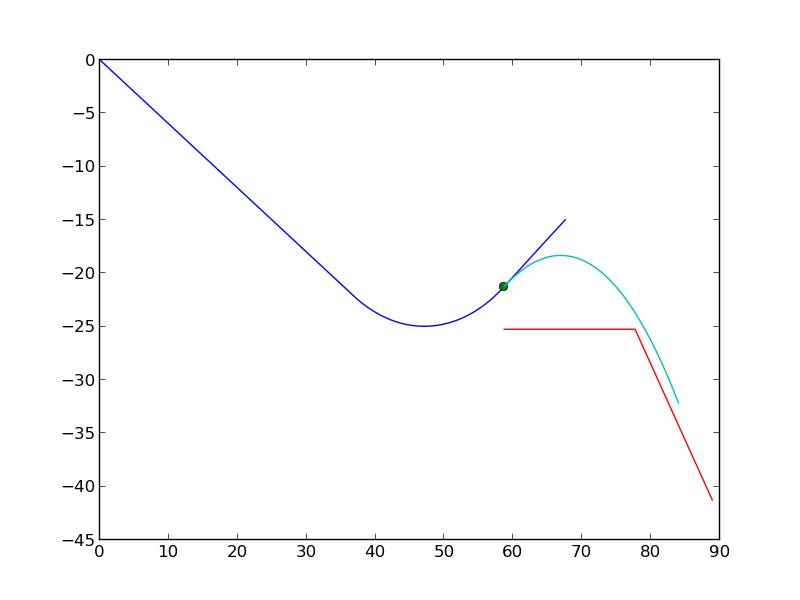
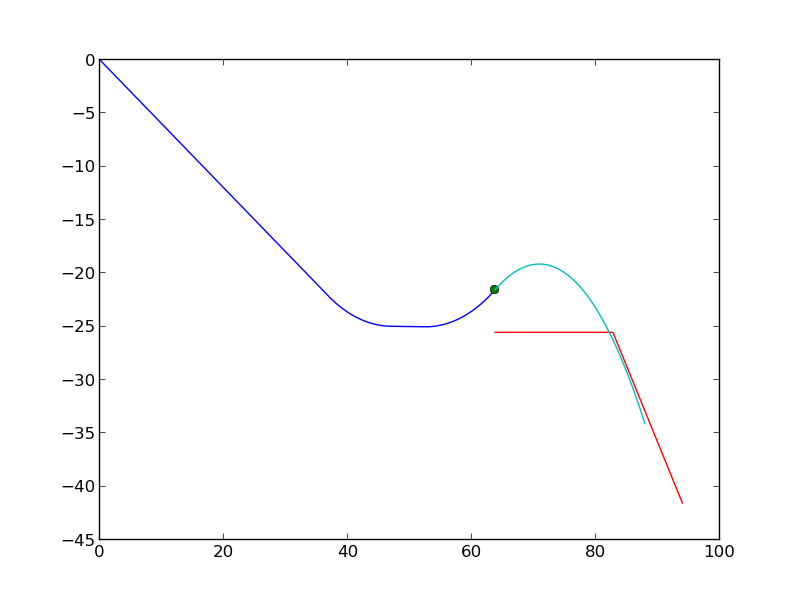
now flat section included, started edits on FCMAcr
mistakes on FCMAcro, need to add takeoff coordinate positions
atleast...

diff --git a/lahti/inrun.py b/lahti/inrun.py
@@ -10,10 +10,6 @@ g=9.81	#gravity
 m=80	#average mass of rider
 C=.055	#friction coefficient
 A=D/m#	#airresistant coefficient
-radius=20.	#this is global constant, radius of the transitions
-runangle=31.*2.*pi/360.		#angle of the inrun, straight section
-flat=5		#length of flat section before takeof
-ylengthstr=25.-(radius-cos(runangle)*radius)	#-yheight when transition starts, 0 is strarting level, 20 radius
 def tran1(xx,kalku):
 	#radius=radius			#radius of a transition from inrun to flat
 	yy=sqrt(radius**2-xx**2) 	#y coordinate at position x
@@ -21,25 +17,25 @@ def tran1(xx,kalku):
 	return [-yy,agl]
 
 
-def rinnekulma(x):
+def rinnekulma(x,ylengthstr,runangle,radius,flat):
 	if tan(runangle)*x<ylengthstr:
 		y=tan(runangle)
-		angle=runangle
+		return runangle
 	elif x<=(ylengthstr/tan(runangle)+radius*sin(runangle)):
-		angle=arcsin(((ylengthstr/tan(runangle)+radius*sin(runangle))-x)/radius)
-	elif x<=(ylengthstr/tan(runangle)+radius*sin(runangle))+flat:
-		angle=0
+		return arcsin(((ylengthstr/tan(runangle)+radius*sin(runangle))-x)/radius)
+	elif x<((ylengthstr/tan(runangle)+radius*sin(runangle))+flat):
+		return 0
 	else:
 		angle=max(-36.*2.*pi/360.,-arcsin((x-(ylengthstr/(tan(runangle))+radius*sin(runangle))-flat)/radius))
 
 	return angle
-def invradius(x):
-	if rinnekulma(x)>=runangle or -35.*2.*pi/360.>rinnekulma(x) or rinnekulma == 1:
+def invradius(x,ylengthstr,runangle,radius,flat):
+	if rinnekulma(x,ylengthstr,runangle,radius,flat)>=runangle or -35.*2.*pi/360.>rinnekulma(x,ylengthstr,runangle,radius,flat) or abs(rinnekulma(x,ylengthstr,runangle,radius,flat)) < 0.01:
 		return 0
 	else:
 		return 1./radius
 	
-def inrun(kalku,valku,sxalku,syalku):
+def inrun(kalku,valku,sxalku,syalku,ylengthstr,runangle,radius,flat):
 	#radius = radius# same radius as in tran1, 
 	#lasketaan lentorata
 	#time steps size, 100seconds / how many steps
@@ -64,8 +60,8 @@ def inrun(kalku,valku,sxalku,syalku):
 	#forward stepping solution with finite differences for speed  
 	for i in range(len(t)-1):
 		t[i+1,0]=t[i,0]+dt
-		ax[i+1,0]=-sqrt(vx[i,0]**2+vy[i,0]**2)*vx[i,0]*A+g*cos(rinnekulma(sx[i,0]))*sin(rinnekulma(sx[i,0]))-g*C*cos(rinnekulma(sx[i,0]))*cos(rinnekulma(sx[i,0]))+sin(rinnekulma(sx[i,0]))*(vx[i,0]**2+vy[i,0]**2)*invradius(sx[i,0])-cos(rinnekulma(sx[i,0]))*C*(vx[i,0]**2+vy[i,0]**2)*invradius(sx[i,0])
-		ay[i+1,0]=-g-sqrt(vy[i,0]**2+vx[i,0]**2)*vy[i,0]*A + g*cos(rinnekulma(sx[i,0]))*cos(rinnekulma(sx[i,0]))+g*C*cos(rinnekulma(sx[i,0]))*sin(rinnekulma(sx[i,0]))+cos(rinnekulma(sx[i,0]))*(vx[i,0]**2+vy[i,0]**2)*invradius(sx[i,0])+sin(rinnekulma(sx[i,0]))*C*(vx[i,0]**2+vy[i,0]**2)*invradius(sx[i,0])		
+		ax[i+1,0]=-sqrt(vx[i,0]**2+vy[i,0]**2)*vx[i,0]*A+g*cos(rinnekulma(sx[i,0],ylengthstr,runangle,radius,flat))*sin(rinnekulma(sx[i,0],ylengthstr,runangle,radius,flat))-g*C*cos(rinnekulma(sx[i,0],ylengthstr,runangle,radius,flat))*cos(rinnekulma(sx[i,0],ylengthstr,runangle,radius,flat))+sin(rinnekulma(sx[i,0],ylengthstr,runangle,radius,flat))*(vx[i,0]**2+vy[i,0]**2)*invradius(sx[i,0],ylengthstr,runangle,radius,flat)-cos(rinnekulma(sx[i,0],ylengthstr,runangle,radius,flat))*C*(vx[i,0]**2+vy[i,0]**2)*invradius(sx[i,0],ylengthstr,runangle,radius,flat)
+		ay[i+1,0]=-g-sqrt(vy[i,0]**2+vx[i,0]**2)*vy[i,0]*A + g*cos(rinnekulma(sx[i,0],ylengthstr,runangle,radius,flat))*cos(rinnekulma(sx[i,0],ylengthstr,runangle,radius,flat))+g*C*cos(rinnekulma(sx[i,0],ylengthstr,runangle,radius,flat))*sin(rinnekulma(sx[i,0],ylengthstr,runangle,radius,flat))+cos(rinnekulma(sx[i,0],ylengthstr,runangle,radius,flat))*(vx[i,0]**2+vy[i,0]**2)*invradius(sx[i,0],ylengthstr,runangle,radius,flat)+sin(rinnekulma(sx[i,0],ylengthstr,runangle,radius,flat))*C*(vx[i,0]**2+vy[i,0]**2)*invradius(sx[i,0],ylengthstr,runangle,radius,flat)		
 		vx[i+1,0]=dt*ax[i+1,0]+vx[i,0]
 		vy[i+1,0]=dt*ay[i+1,0]+vy[i,0]
 		sx[i+1,0]=dt*vx[i+1,0]+sx[i,0]
@@ -75,21 +71,26 @@ def inrun(kalku,valku,sxalku,syalku):
 	
 	return [t,sx,sy,vx,vy,ax,ay]
 #this is to locate the takeoff
-def takeoff():
-	[t,sx,sy,vx,vy,ax,ay]=inrun(31,0,0,0)
+def takeoff(ylengthstr,runangle,radius,flat):
+	[t,sx,sy,vx,vy,ax,ay]=inrun(31,0,0,0,ylengthstr,runangle,radius,flat)
 	kode=1
-	while rinnekulma(sx[kode,0])>-35.*2.*pi/360.:
+	while rinnekulma(sx[kode,0],ylengthstr,runangle,radius,flat)>-35.*2.*pi/360.:
 		kode=kode+1
-	return [sx[kode,0],sy[kode,0],vx[kode,0],vy[kode,0]]
+	return [kode,sx[kode,0],sy[kode,0],vx[kode,0],vy[kode,0]]
 
 # include this trick
 
 if __name__ == '__main__': 
 #rest after
-	[t,sx,sy,vx,vy,ax,ay]=inrun(31,0,0,0)
-	pylab.plot(sx,sy)
-	print (ylengthstr/tan(runangle)+radius*sin(runangle))
-	[sxloppu,syloppu,vxloppu,vyloppu]=takeoff()
+
+	radius=20.	#this is global constant, radius of the transitions
+	runangle=31.*2.*pi/360.		#angle of the inrun, straight section
+	flat=5.		#length of flat section before takeof
+	ylengthstr=25.-(radius-cos(runangle)*radius)	#-yheight when transition starts, 0 is strarting level, 20 radius
+	[t,sx,sy,vx,vy,ax,ay]=inrun(31,0,0,0,ylengthstr,runangle,radius,flat)
+	[kode,sxloppu,syloppu,vxloppu,vyloppu]=takeoff(ylengthstr,runangle,radius,flat)
+	pylab.plot(sx[:kode],sy[:kode])
+	print (ylengthstr/tan(runangle)+radius*sin(runangle))+flat
 	print [vxloppu,vyloppu]
 	print sqrt(vxloppu**2+vyloppu**2)
 	pylab.plot(sxloppu,syloppu,'o')
